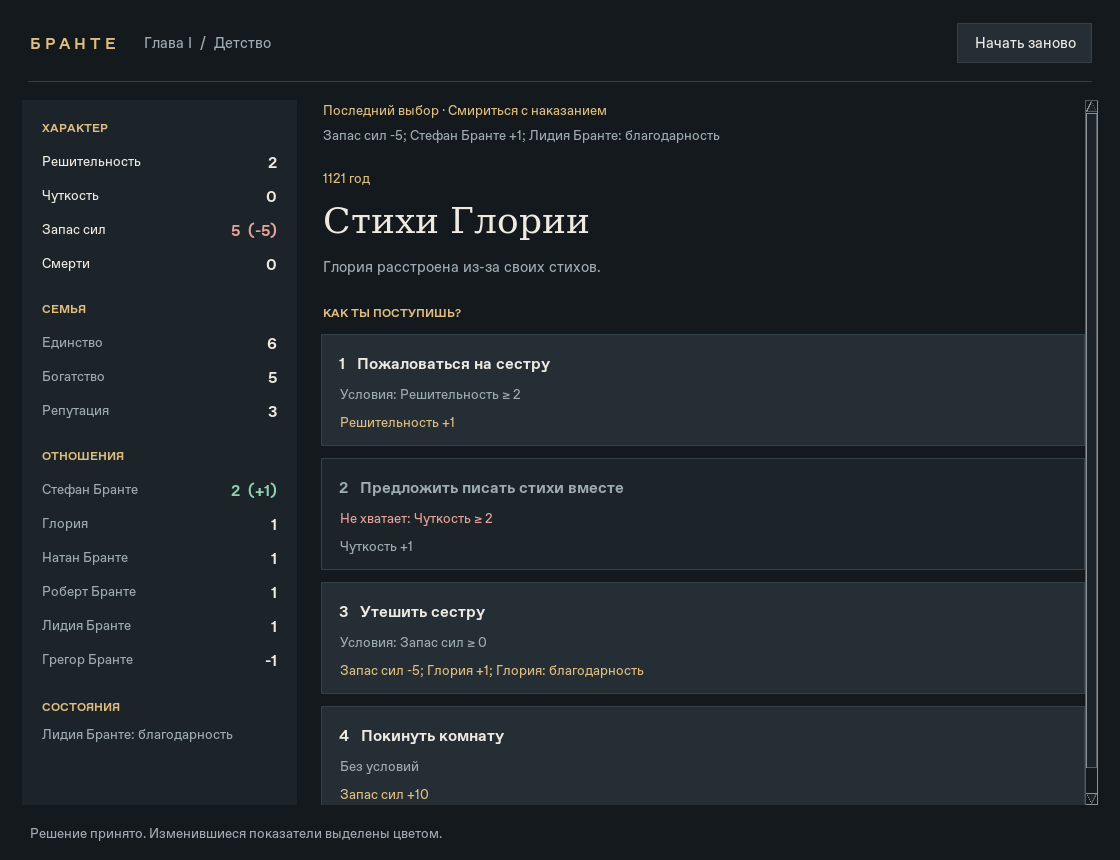
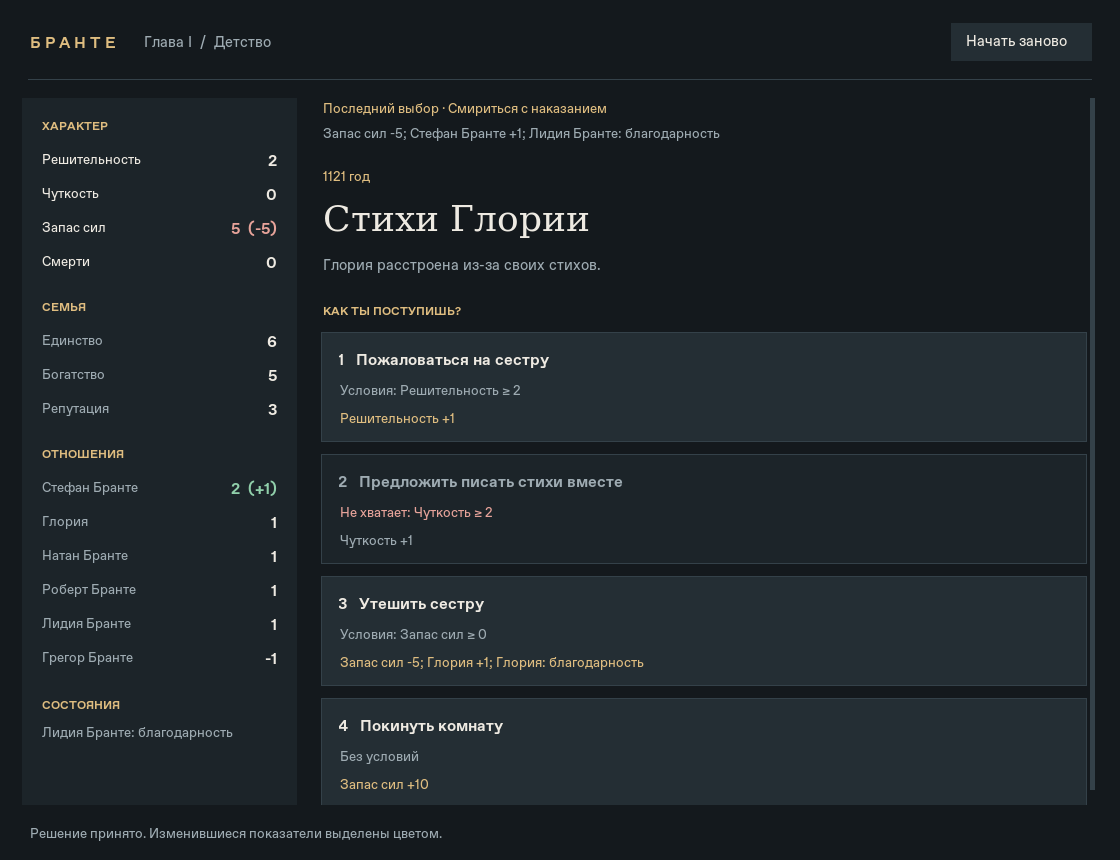
Fix unreadable macOS controls with theme-independent canvas rendering

diff --git a/brante/gui.py b/brante/gui.py
@@ -17,12 +17,107 @@ GREEN = '#90cfaa'
 RED = '#e7a39a'
 
 
+class PaintedButton(tk.Canvas):
+    """Canvas text/background avoid Aqua's native white button surface."""
+
+    def __init__(self, parent, text, command, font, bg=CARD, fg=TEXT,
+                 state='normal', padx=15, pady=9, wraplength=520):
+        self.text = text
+        self.command = command
+        self.normal_bg = bg
+        self.foreground = fg
+        self.padx = padx
+        self.pady = pady
+        self.pressed = False
+        metrics = tkfont.Font(root=parent, font=font)
+        width = min(wraplength, metrics.measure(text)) + padx * 2 + 8
+        super().__init__(parent, width=width, height=metrics.metrics('linespace') + pady * 2,
+                         bg=bg, bd=0, highlightthickness=1, state=state,
+                         highlightbackground=bg, highlightcolor=ACCENT,
+                         takefocus=state != 'disabled', cursor='arrow' if state == 'disabled' else 'hand2')
+        self.text_item = self.create_text(padx, pady, anchor='nw', text=text, font=font,
+                                          fill=MUTED if state == 'disabled' else fg,
+                                          disabledfill=MUTED, width=wraplength)
+        self.bind('<Configure>', self._layout)
+        self.bind('<Enter>', self._enter)
+        self.bind('<Leave>', self._leave)
+        self.bind('<ButtonPress-1>', self._press)
+        self.bind('<ButtonRelease-1>', self._release)
+        self.bind('<Return>', lambda _: self.invoke())
+        self.bind('<space>', lambda _: self.invoke())
+
+    def cget(self, key):
+        return self.text if key == 'text' else super().cget(key)
+
+    def _layout(self, event):
+        self.itemconfigure(self.text_item, width=max(20, event.width - self.padx * 2 - 4))
+        bounds = self.bbox(self.text_item)
+        if bounds:
+            height = bounds[3] - bounds[1] + self.pady * 2
+            if int(super().cget('height')) != height:
+                self.configure(height=height)
+
+    def _enter(self, _):
+        if self.cget('state') != 'disabled':
+            self.configure(bg=BORDER)
+
+    def _leave(self, _):
+        self.pressed = False
+        self.configure(bg=self.normal_bg)
+
+    def _press(self, _):
+        if self.cget('state') != 'disabled':
+            self.pressed = True
+            self.focus_set()
+
+    def _release(self, event):
+        activate = self.pressed and 0 <= event.x < self.winfo_width() and 0 <= event.y < self.winfo_height()
+        self.pressed = False
+        if activate:
+            self.invoke()
+
+    def invoke(self):
+        if self.cget('state') != 'disabled':
+            return self.command()
+
+
+class PaintedScrollbar(tk.Canvas):
+    """A dark draggable thumb, independent of the native scrollbar theme."""
+
+    def __init__(self, parent, command, background):
+        super().__init__(parent, width=11, bg=background, bd=0, highlightthickness=0)
+        self.command = command
+        self.first, self.last = 0.0, 1.0
+        self.offset = 0
+        self.thumb = self.create_rectangle(3, 0, 8, 0, fill=BORDER, outline='')
+        self.bind('<Configure>', lambda _: self.set(self.first, self.last))
+        self.bind('<Button-1>', self._press)
+        self.bind('<B1-Motion>', self._drag)
+
+    def set(self, first, last):
+        self.first, self.last = float(first), float(last)
+        height = self.winfo_height()
+        self.coords(self.thumb, 3, self.first * height, 8, self.last * height)
+        self.itemconfigure(self.thumb, state='hidden' if self.last - self.first >= 0.999 else 'normal')
+
+    def _press(self, event):
+        top, bottom = self.first * self.winfo_height(), self.last * self.winfo_height()
+        if top <= event.y <= bottom:
+            self.offset = event.y - top
+        else:
+            self.offset = (bottom - top) / 2
+            self._drag(event)
+
+    def _drag(self, event):
+        fraction = (event.y - self.offset) / max(1, self.winfo_height())
+        self.command('moveto', max(0, min(1 - (self.last - self.first), fraction)))
+
+
 class ScrollPane(tk.Frame):
     def __init__(self, parent, background=BG, **kwargs):
         super().__init__(parent, bg=background, **kwargs)
         self.canvas = tk.Canvas(self, bg=background, highlightthickness=0, bd=0)
-        self.scrollbar = tk.Scrollbar(self, orient='vertical', command=self.canvas.yview,
-                                      bg=PANEL, troughcolor=background, width=11)
+        self.scrollbar = PaintedScrollbar(self, command=self.canvas.yview, background=background)
         self.canvas.configure(yscrollcommand=self.scrollbar.set)
         self.canvas.pack(side='left', fill='both', expand=True)
         self.scrollbar.pack(side='right', fill='y')
@@ -101,10 +196,7 @@ class BranteApp:
                         font=font or self.body_font, anchor='w', justify='left', **kwargs)
 
     def button(self, parent, text, command):
-        return tk.Button(parent, text=text, command=command, bg=CARD, fg=TEXT,
-                         activebackground=BORDER, activeforeground=TEXT, relief='flat',
-                         bd=0, padx=15, pady=9, cursor='hand2', highlightthickness=1,
-                         highlightbackground=BORDER, highlightcolor=ACCENT)
+        return PaintedButton(parent, text=text, command=command, font=self.body_font)
 
     def _scroll(self, event):
         target = self.root.winfo_containing(self.root.winfo_pointerx(), self.root.winfo_pointery())
@@ -204,14 +296,10 @@ class BranteApp:
             card = tk.Frame(parent, bg=CARD if not blockers else PANEL,
                             highlightbackground=BORDER, highlightthickness=1, padx=16, pady=12)
             card.pack(fill='x', pady=(0, 12))
-            button = tk.Button(card, text=f"{index + 1}   {choice['label']}", command=lambda i=index: self.choose(i),
+            button = PaintedButton(card, text=f"{index + 1}   {choice['label']}", command=lambda i=index: self.choose(i),
                                state='disabled' if blockers else 'normal', font=(self.font_family, 12, 'bold'),
-                               bg=card.cget('bg'), fg=TEXT, disabledforeground=MUTED, activebackground=BORDER,
-                               activeforeground=ACCENT, relief='flat', bd=0, anchor='w', justify='left',
-                               cursor='arrow' if blockers else 'hand2', highlightthickness=1,
-                               highlightbackground=card.cget('bg'), highlightcolor=ACCENT, padx=0, pady=4, wraplength=520)
+                               bg=card.cget('bg'), fg=TEXT, padx=0, pady=4, wraplength=520)
             button.pack(fill='x')
-            button.bind('<Configure>', lambda e, b=button: b.configure(wraplength=max(100, e.width - 8)))
             self.choice_buttons.append(button)
             conditions = choice['requirements']
             condition_text = ('Не хватает: ' + '; '.join(blockers)) if blockers else (

diff --git a/tests/test_gui.py b/tests/test_gui.py
@@ -11,7 +11,7 @@ except ImportError:
     tk = None
 
 if tk is not None:
-    from brante.gui import GREEN
+    from brante.gui import GREEN, TEXT, PaintedButton
 from test_childhood import LOYALIST
 
 
@@ -78,6 +78,42 @@ class GuiTests(unittest.TestCase):
         self.assertEqual(self.app.game.current, 'hide_and_seek')
         self.assertEqual(self.app.game.stats['Решительность'], 1)
 
+    def test_mouse_release_and_enter_activate_painted_buttons(self):
+        button = self.app.choice_buttons[0]
+        button.event_generate('<ButtonPress-1>', x=10, y=10)
+        button.event_generate('<ButtonRelease-1>', x=10, y=10)
+        self.root.update()
+        self.assertEqual(self.app.game.current, 'hide_and_seek')
+        button = self.app.choice_buttons[1]
+        button.focus_force()
+        self.root.update()
+        button.event_generate('<Return>')
+        self.root.update()
+        self.assertEqual(self.app.game.current, 'descent')
+
+    def test_controls_have_no_native_button_or_scrollbar_surfaces(self):
+        widgets = [self.root]
+        while widgets:
+            widget = widgets.pop()
+            widgets.extend(widget.winfo_children())
+            self.assertNotIsInstance(widget, (tk.Button, tk.Scrollbar))
+        button = self.app.choice_buttons[0]
+        self.assertIsInstance(button, PaintedButton)
+        self.assertEqual(button.itemcget(button.text_item, 'fill'), TEXT)
+        self.assertNotEqual(button.cget('bg'), TEXT)
+
+    def test_drag_scrollbar_reaches_bottom(self):
+        self.root.geometry('940x700')
+        self.app.game.current = 'guest'
+        self.app.render()
+        self.root.update()
+        scrollbar = self.app.scene.scrollbar
+        event = tk.Event()
+        event.y = scrollbar.winfo_height()
+        scrollbar._press(event)
+        self.root.update()
+        self.assertGreater(self.app.scene.canvas.yview()[0], 0)
+
     def test_small_window_scroll_keeps_last_choice_accessible(self):
         self.root.geometry('940x700')
         self.app.game.current = 'guest'
@@ -98,7 +134,7 @@ class GuiTests(unittest.TestCase):
         while widgets:
             widget = widgets.pop()
             widgets.extend(widget.winfo_children())
-            if isinstance(widget, (tk.Label, tk.Button)):
+            if isinstance(widget, (tk.Label, PaintedButton)):
                 texts.append(str(widget.cget('text')))
         text = '\n'.join(texts).lower()
         self.assertNotIn('ods', text)
